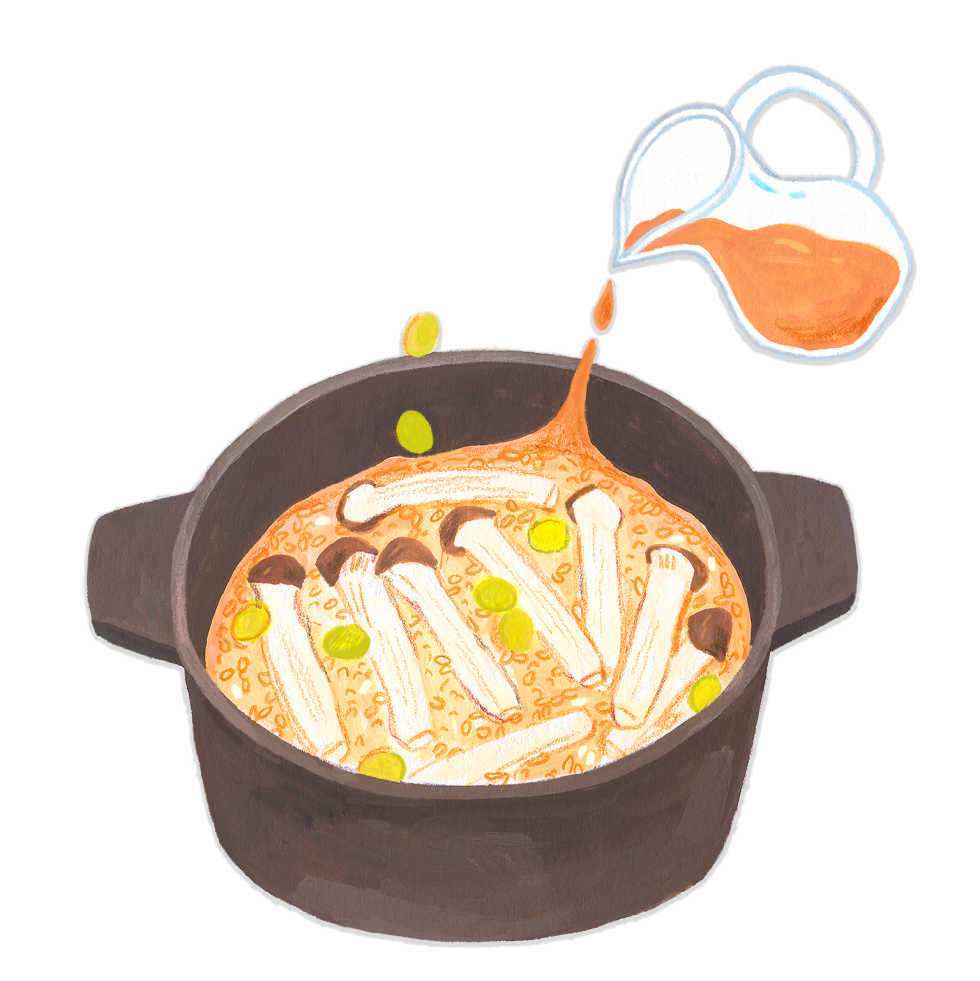
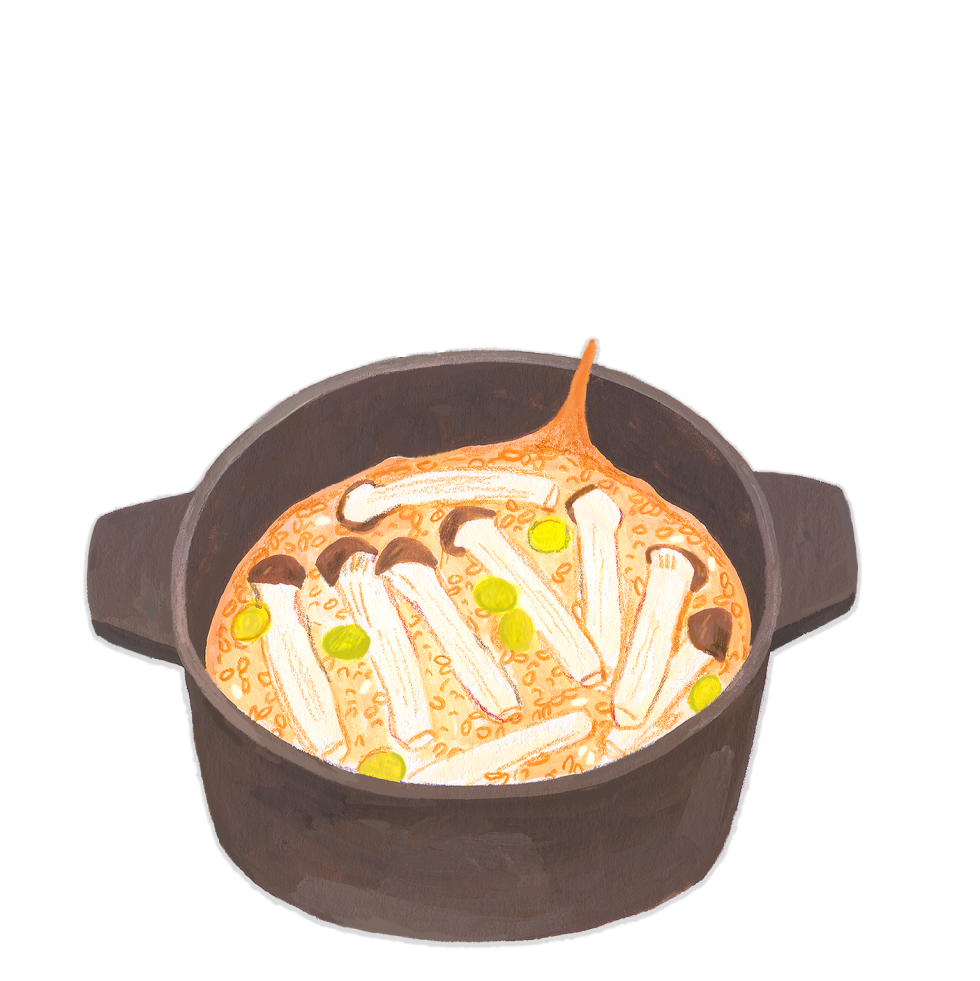
edit sub09 ani 14:24

Changed region(s): [[0.5816, 0.0612, 0.949, 0.3976], [0.398, 0.3058, 0.4592, 0.367], [0.398, 0.3976, 0.4592, 0.4587]]

diff --git a/html/vol201/css/contents.css b/html/vol201/css/contents.css
@@ -1287,16 +1287,34 @@
 }
 
 .sub09 .section03 .content .item4 .item_img { position: relative; }
-.sub09 .section03 .content .item4 .item_img .img2 { position: absolute; left: 0; bottom: 0; animation: appear1 3.5s infinite; }
+.sub09 .section03 .content .item4 .item_img .img2 { position: absolute; left: 0; bottom: 0; animation: appear1 3s infinite; }
 @keyframes appear1 {
 	0%{ opacity: 0; }
 	100%{ opacity: 1; }
 }
-.sub09 .section03 .content .item4 .item_img .img3 { position: absolute; left: 0; bottom: 0; animation: appear2 3.5s infinite; }
+.sub09 .section03 .content .item4 .item_img .img3 { position: absolute; left: 0; bottom: 0; animation: appear2 3s infinite; }
 @keyframes appear2 {
 	0%{ opacity: 0; }
-	35%{ opacity: 0; }
+	20%{ opacity: 0; }
 	100%{ opacity: 1; }
+}
+.sub09 .section03 .content .item4 .item_img .img4 { position: absolute; left: 0; bottom: 0; animation: appear3 3s infinite; }
+@keyframes appear3 {
+	0%{ opacity: 0; }
+	30%{ opacity: 0; }
+	100%{ opacity: 1; }
+}
+.sub09 .section03 .content .item4 .item_img .img5 { position: absolute; left: 0; bottom: 0; animation: appear4 3s infinite; }
+@keyframes appear4 {
+	0%{ opacity: 0; }
+	40%{ opacity: 0; }
+	100%{ opacity: 1; }
+}
+.sub09 .section03 .content .item4 .item_img .img6 { position: absolute; right: 0; top: 0; animation: stock 3s infinite; }
+@keyframes stock {
+	0%{ transform: rotate(3deg); }
+	50%{ transform: rotate(-3deg); }
+	100%{ transform: rotate(3deg); }
 }
 
 .sub09 .section03 .content .item5 .item_img { position: relative; }

diff --git a/html/vol201/sub09_animation.php b/html/vol201/sub09_animation.php
@@ -48,16 +48,8 @@
 						<div class="subtitle">식물과 공생하는 버섯</div>
 						<br class="pc_display">
 						<div class="text">
-							추석이 다가오면 마트 진열장에서 자연산 송이버섯을 만날 수 있다. 
-							맛깔스러운 자태에 이끌려 장바구니에 집어넣다가 1kg당 수십만 원을 호가하는 가격에 입이 떡 벌어진다. 
-							하지만 자연산 송이의 냄새를 한번 맡고 나서는 비싼 가격에 고개가 끄덕여진다. 
-							다른 버섯과 달리 강렬하고 향긋한 솔향이 몸속으로 퍼져 나가 마치 자연을 거니는 듯한 기분이 들게 한다. </br>
-							송이버섯을 포함한 모든 버섯은 생태계와 공생하는 고마운 곰팡이다. 
-							곰팡이는 식물이 남긴 영양분을 먹고 자라는데, 자연산 송이버섯의 경우 소나무 뿌리에 붙어 더부살이하며 소나무가 광합성으로 만든 탄수화물을 먹고 자란다. 
-							송이버섯의 포자가 소나무 영양분을 골라먹고 무럭무럭 자라는 과정에서 흙 속의 수분과 양분도 송이버섯 안으로 흡수된다. 
-							전문가들은 이때 버섯이 흡수한 무기물, 인, 질소 등 양분이 소나무에게 공급되어 뿌리를 보호하는 역할을 하는 것으로 추측하고 있다. </br>
-							송이버섯에게 번식의 기회를 부여한 소나무, 그런 소나무에게 수분과 양분으로 고마움을 돌려주는 송이버섯. 
-							이 둘의 독특한 공생관계가 명확히 밝혀지지 않았지만, 확실한 건 버섯은 식물들과 공생관계를 이루고, 나무의 생장을 돕는 등 생태계에서 중요한 역할을 담당하는 고마운 식재료이다.
+							추석이 다가오면 마트 진열장에서 자연산 송이버섯을 만날 수 있다. 맛깔스러운 자태에 이끌려 장바구니에 집어넣다가 1kg당 수십만 원을 호가하는 가격에 입이 떡 벌어진다. 하지만 자연산 송이의 냄새를 한번 맡고 나서는 비싼 가격에 고개가 끄덕여진다. 다른 버섯과 달리 강렬하고 향긋한 솔향이 몸속으로 퍼져 나가 마치 자연을 거니는 듯한 기분이 들게 한다.<br>
+							송이버섯을 포함한 모든 버섯은 생태계와 공생하는 고마운 곰팡이다. 곰팡이는 식물이 남긴 영양분을 먹고 자라는데, 자연산 송이버섯의 경우 소나무 뿌리에 붙어 더부살이하며 소나무가 광합성으로 만든 탄수화물을 먹고 자란다. 송이버섯의 포자가 소나무 영양분을 골라먹고 무럭무럭 자라는 과정에서 흙 속의 수분과 양분도 송이버섯 안으로 흡수된다. 전문가들은 이때 버섯이 흡수한 무기물, 인, 질소 등 양분이 소나무에 공급되어 뿌리를 보호하는 역할을 하는 것으로 추측하고 있다.<br>송이버섯에 번식의 기회를 부여한 소나무, 그런 소나무에게 수분과 양분으로 고마움을 돌려주는 송이버섯. 이 둘의 독특한 공생관계가 명확히 밝혀지지 않았지만, 확실한 건 버섯은 식물들과 공생관계를 이루고, 나무의 생장을 돕는 등 생태계에서 중요한 역할을 담당하는 고마운 식재료라는 점이다.
 						</div>
 					</div><!-- //.content02 -->
 					
@@ -67,8 +59,8 @@
 						<div class="text">
 							허준의 『동의보감』에는 ‘송이는 성분이 고르고 맛이 달며, 독은 없고 소나무 냄새를 포함해 향이 뛰어나다. 산중에 오래된 소나무 밑에서 소나무 기운을 받아 자라는 것으로 버섯 중 으뜸이다’라고 적혀 있다. 자연산 송이버섯이 오래전부터 버섯의 왕이었음을 알 수 있는 대목이다.<br>
 							송이버섯은 맛과 향뿐 아니라 효능도 뛰어난데, 혈중 콜레스테롤을 억제해 위장병, 당뇨병, 동맥경화, 고지혈증 등을 예방하는 데 도움을 준다. 한의학적으로는 위장의 기능을 북돋아 주고 소화력이 약한 사람에게 효과적이라고 알려졌다.<br>
-							송이버섯은 소나무, 미생물, 토양인자, 기상 환경 등 여러 조건이 맞아떨어져야만 생장할 수 있어 자연산으로만 채취할 수 있다. 우리나라에서는 경북 울진, 영주, 봉화 지방과 강원 강릉, 양양 지방에서 주로 나는데, 산림청의 허가를 받은 채취원만이 자연산 송이버섯을 채취할 수 있다. 본인 소유나 임차하지 않은 산에서 송이버섯을 채취하면 5년 이하 징역 또는 5천만 원 이하 벌금형에 처할 수 있으니 등산 중 송이버섯을 본다고 해도 함부로 채취해서는 안 된다.<br>
-							자연산 송이는 생으로 먹는 것이 일반적이지만, 더 풍부한 향을 느끼고 싶거나, 귀한 손님에게 대접하고자 한다면 송이버섯솥밭을 추천한다. 가을을 담은 송이버섯솥밥 레시피를 소개한다.
+							송이버섯은 소나무, 미생물, 토양인자, 기상 환경 등 여러 조건이 맞아떨어져야만 생장할 수 있어 자연산으로만 채취할 수 있다. 우리나라에서는 경북 울진, 영주, 봉화 지방과 강원 강릉, 양양 지방에서 주로 나며, 산림청의 허가를 받은 채취원만이 자연산 송이버섯을 채취할 수 있다. 본인 소유나 임차하지 않은 산에서 송이버섯을 채취하면 5년 이하 징역 또는 5천만 원 이하 벌금형에 처할 수 있으니 등산 중 송이버섯을 본다고 해도 함부로 채취해서는 안 된다.<br>
+							자연산 송이는 생으로 먹는 것이 일반적이지만, 더 풍부한 향을 느끼고 싶거나, 귀한 손님에게 대접하고자 한다면 송이버섯솥밭을 추천한다. 가을을 담은 송이버섯솥밥 레시피를 소개한다. 
 						</div>
 					</div><!-- //.content03 -->
 
@@ -184,12 +176,18 @@
 								<img src="img/sub09/sub09_13-1.png" class="img1">
 								<img src="img/sub09/sub09_13-2.png" class="img2">
 								<img src="img/sub09/sub09_13-3.png" class="img3">
+								<img src="img/sub09/sub09_13-4.png" class="img4">
+								<img src="img/sub09/sub09_13-5.png" class="img5">
+								<img src="img/sub09/sub09_13-6.png" class="img6">
 							</div>
 						</li>
 
 						<li class="item5 fadeBigInUp">
 							<div class="item_title"><img src="img/sub09/sub09_14.svg"></div>
-							<div class="item_text">밥물이 끓어오르면 약불로 줄여 15~20분간 익힌 후, 불을 끄고 5분 정도 뜸을 들이면 완성!</div>
+							<div class="item_text">
+								간장, 맛술, 고춧가루, 다진 마늘, 참기름, 통깨를 섞어 양념 간장을 준비한다. <br class="pc_display">
+								이후 밥물이 끓어 오르면 약불로 줄여 15~20분간 익힌 후, 불을 끄고 5분 정도 뜸을 들이면 완성!
+							</div>
 							<div class="item_img">
 								<img src="img/sub09/sub09_15-1.png" class="img1">
 								<img src="img/sub09/sub09_15-2.png" class="img2">
